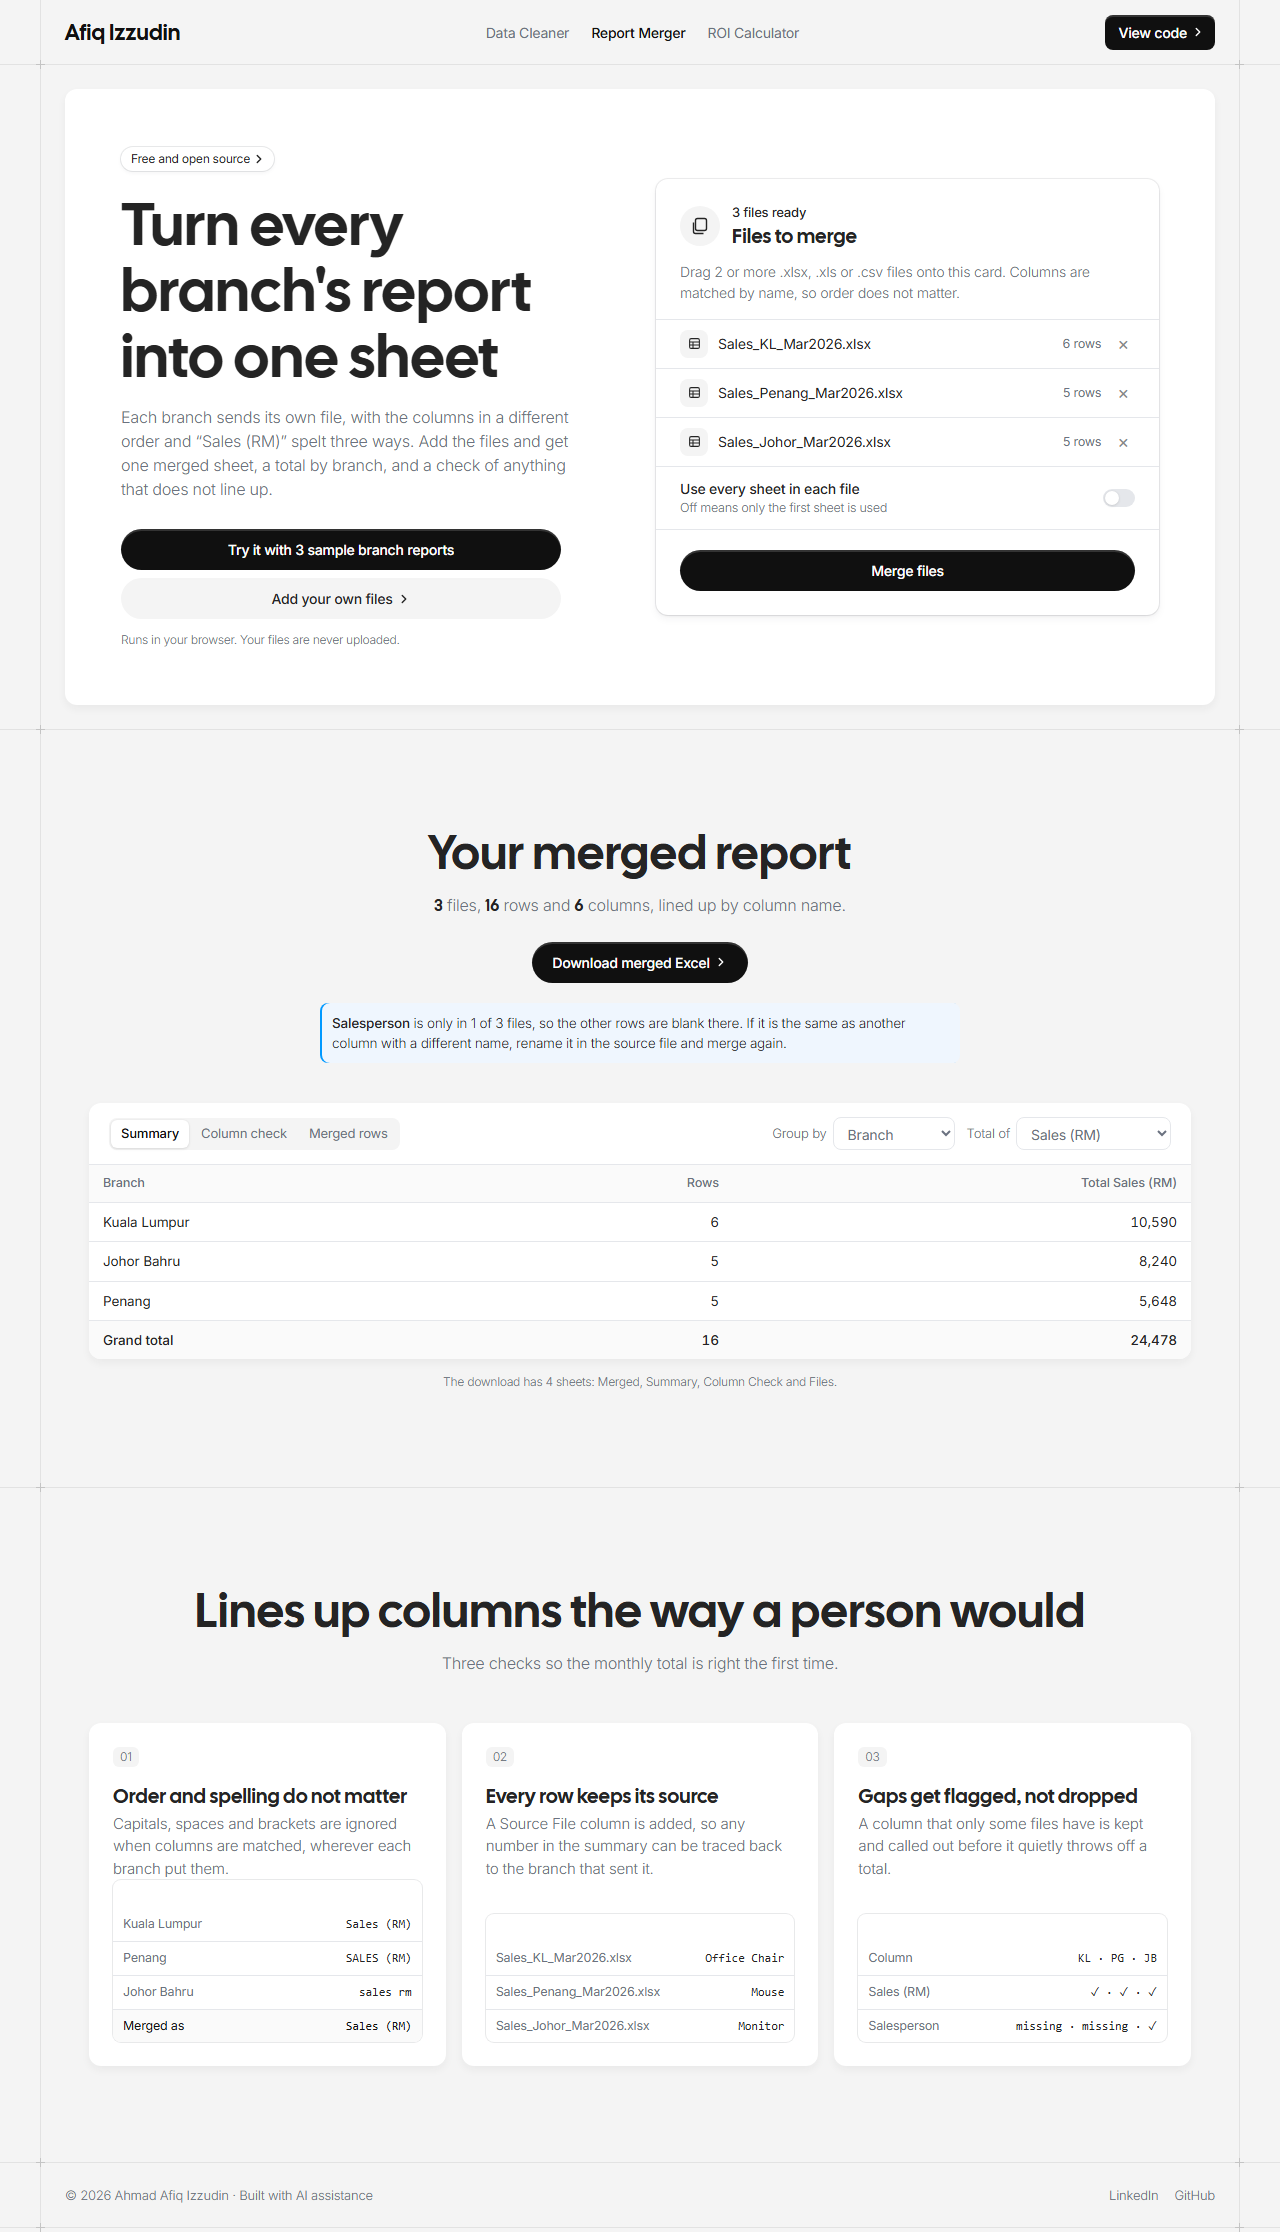
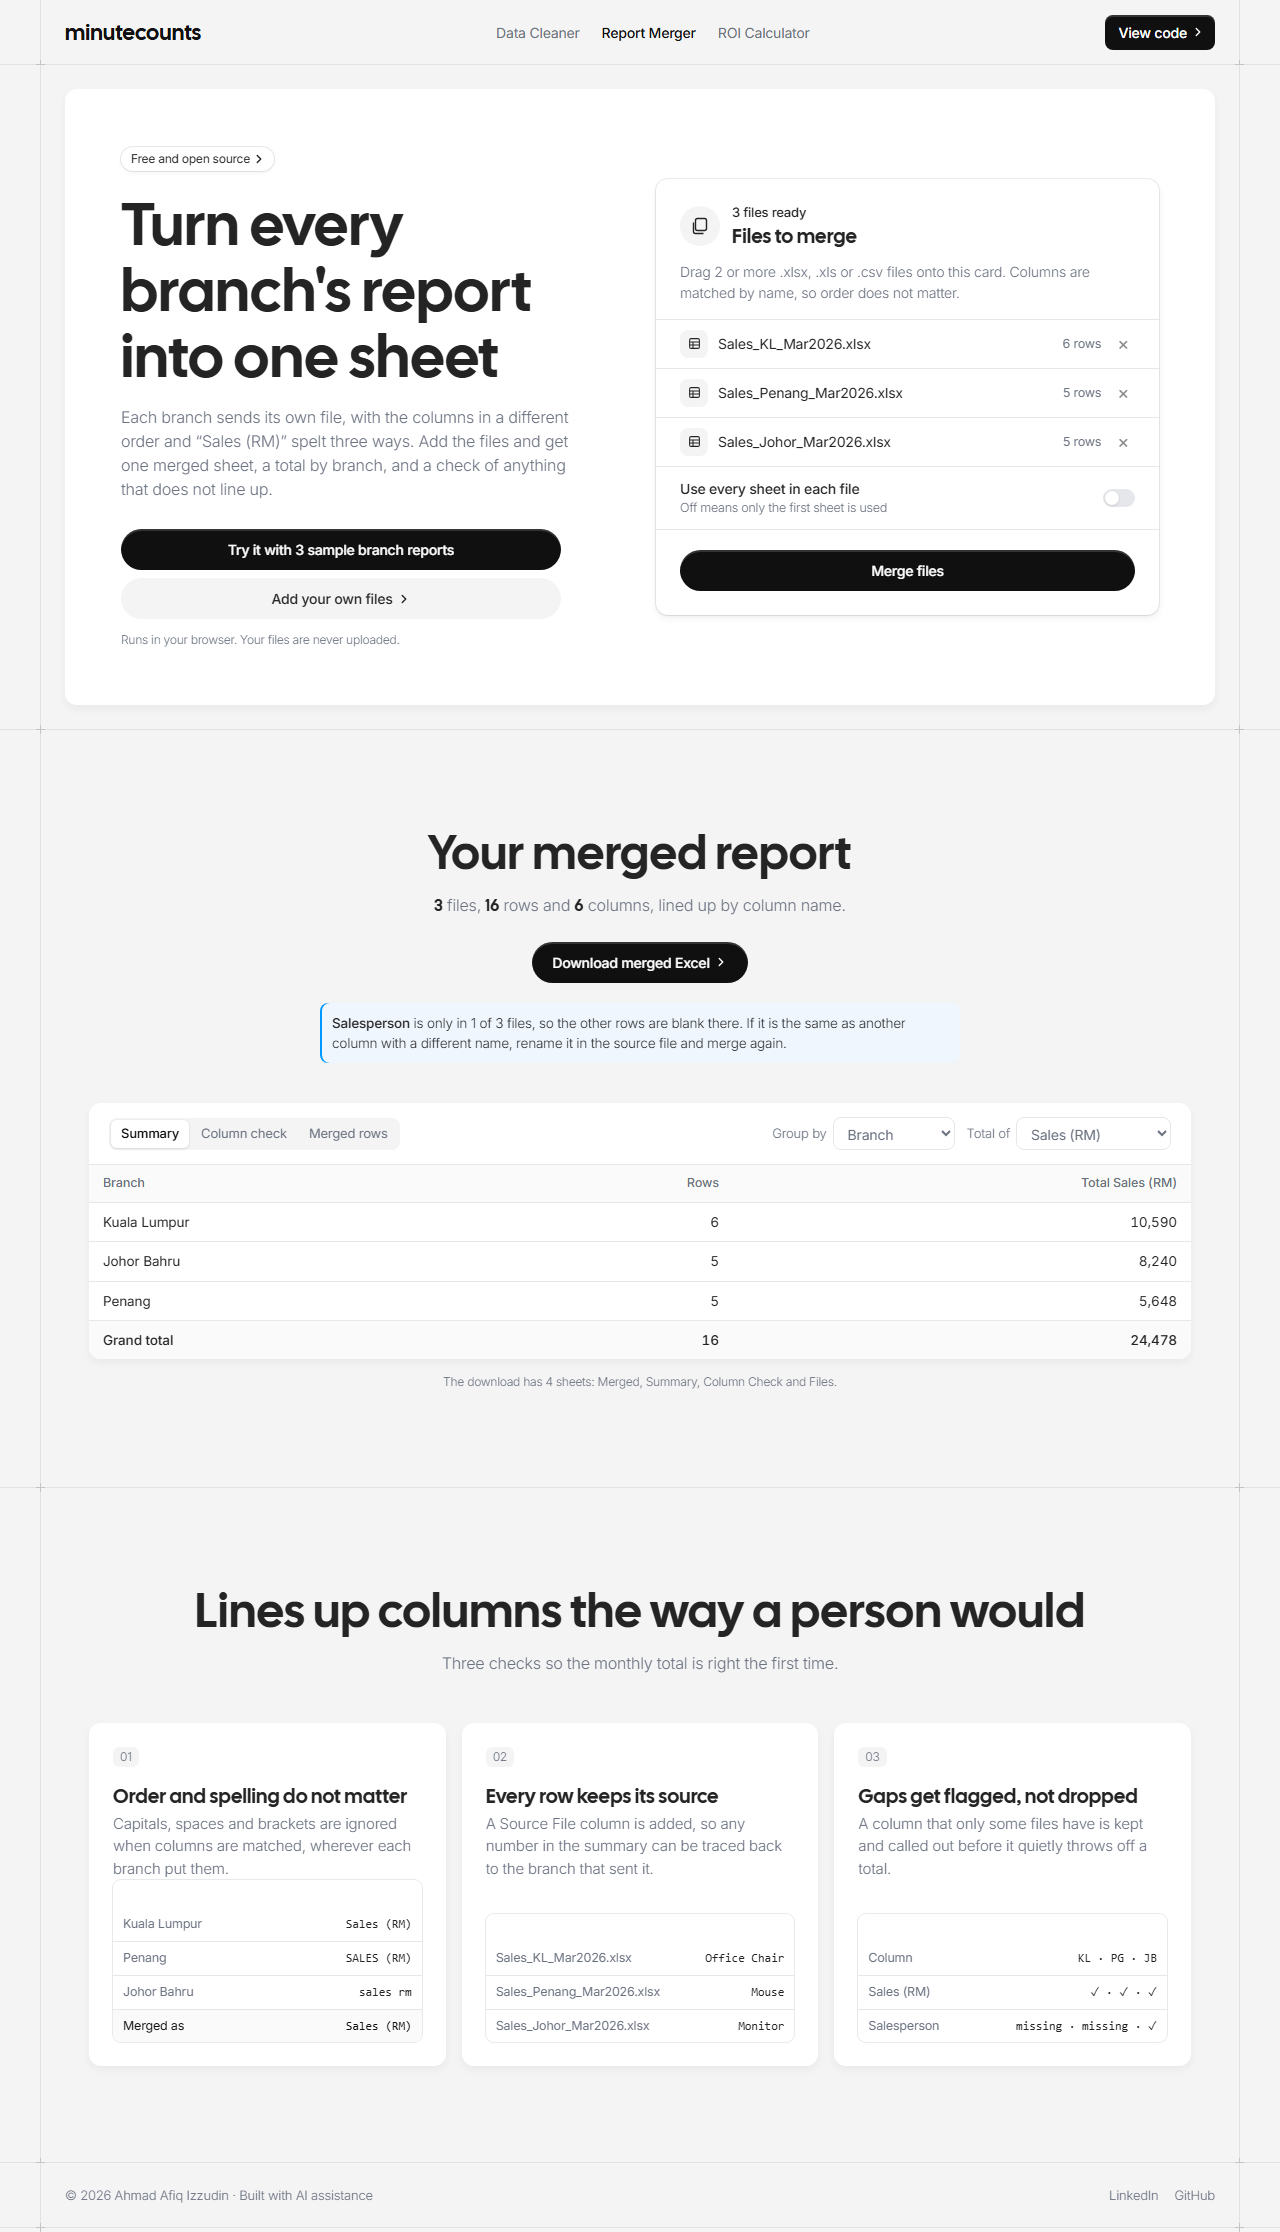
Rename the header wordmark to minutecounts

diff --git a/index.html b/index.html
@@ -195,7 +195,7 @@
 <body>
 <header class="band">
   <div class="frame bar">
-    <a class="wordmark" href="https://www.linkedin.com/in/afiq-izzudin-27aaa936b">Afiq Izzudin</a>
+    <a class="wordmark" href="https://www.linkedin.com/in/afiq-izzudin-27aaa936b">minutecounts</a>
     <nav class="nav" aria-label="Office Toolkit">
       <a href="../excel-data-cleaner/">Data Cleaner</a>
       <a href="../excel-report-merger/" aria-current="page">Report Merger</a>
